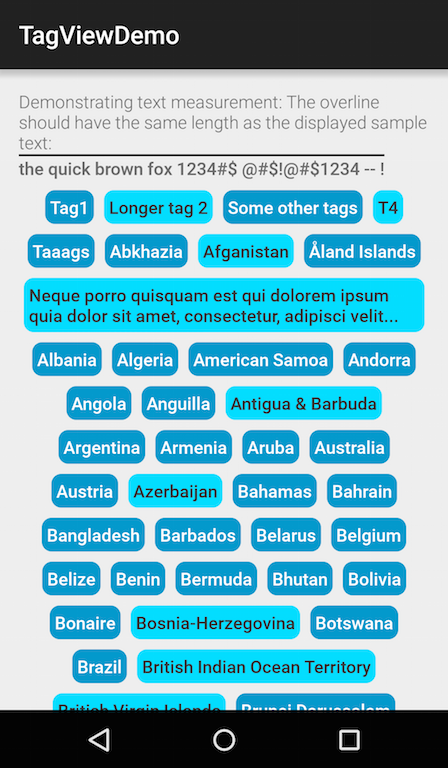
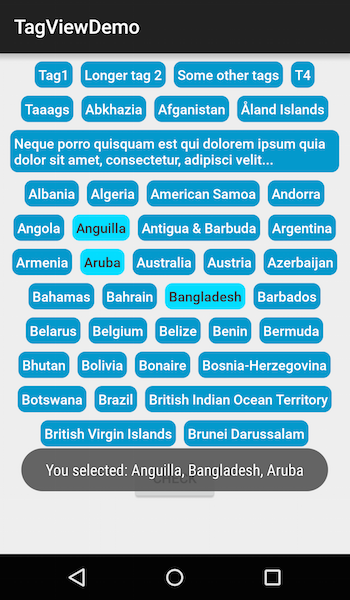
Fixed tag background references being lost on app resume

diff --git a/taglayout/src/main/java/com/flavpopescu/TagLayout.java b/taglayout/src/main/java/com/flavpopescu/TagLayout.java
@@ -5,9 +5,9 @@ import android.content.res.TypedArray;
 import android.graphics.Paint;
 import android.graphics.Typeface;
 import android.graphics.drawable.Drawable;
-import android.support.v4.content.res.ResourcesCompat;
 import android.text.TextUtils;
 import android.util.AttributeSet;
+import android.util.Log;
 import android.util.TypedValue;
 import android.view.Gravity;
 import android.view.View;
@@ -37,8 +37,8 @@ public class TagLayout extends LinearLayout {
     private int[] mTagWidths;
     private int mAvailableWidth;
     private Set<Integer> mSelectedTags;
-    private Drawable mTagBackgroundSelectedDrawable;
-    private Drawable mTagBackgroundDrawable;
+    private int mTagBackgroundId;
+    private int mTagBackgroundSelectedId;
 
     public TagLayout(Context context) {
         super(context);
@@ -60,14 +60,8 @@ public class TagLayout extends LinearLayout {
             mVerticalSpacing = a.getDimension(R.styleable.TagLayout_com_flavpopescu_tagVerticalSpacing,
                     (int) (TypedValue.applyDimension(TypedValue.COMPLEX_UNIT_DIP, 4, mContext.getResources().getDisplayMetrics())));
 
-            int tagBackgroundId = a.getResourceId(R.styleable.TagLayout_com_flavpopescu_tagBackground, 0);
-            if (tagBackgroundId != 0) {
-                mTagBackgroundDrawable = ResourcesCompat.getDrawable(mContext.getResources(), tagBackgroundId, null);
-            }
-            int tagBackgroundSelectedId = a.getResourceId(R.styleable.TagLayout_com_flavpopescu_tagBackgroundSelected, 0);
-            if (tagBackgroundSelectedId != 0) {
-                mTagBackgroundSelectedDrawable = ResourcesCompat.getDrawable(mContext.getResources(), tagBackgroundSelectedId, null);
-            }
+            mTagBackgroundId = a.getResourceId(R.styleable.TagLayout_com_flavpopescu_tagBackground, 0);
+            mTagBackgroundSelectedId = a.getResourceId(R.styleable.TagLayout_com_flavpopescu_tagBackgroundSelected, 0);
 
             mTagTextPadding = a.getDimension(R.styleable.TagLayout_com_flavpopescu_tagTextPadding,
                     (int) (TypedValue.applyDimension(TypedValue.COMPLEX_UNIT_DIP, 0, mContext.getResources().getDisplayMetrics())));
@@ -85,6 +79,10 @@ public class TagLayout extends LinearLayout {
         mSelectedTags = new HashSet<>();
     }
 
+    public Set<Integer> getSelectedTags() {
+        return mSelectedTags;
+    }
+
     @Override
     protected void onSizeChanged(int w, int h, int oldw, int oldh) {
         super.onSizeChanged(w, h, oldw, oldh);
@@ -97,10 +95,23 @@ public class TagLayout extends LinearLayout {
             String currentTag = mTags[i];
 
             final TextView textView = new TextView(mContext);
-            if (mTagBackgroundDrawable != null) {
-                textView.setBackground(mTagBackgroundDrawable);
-            }
             textView.setTextColor(mTextColor);
+
+            final Drawable drawableNormal;
+            final Drawable drawableSelected;
+            if (mTagBackgroundId > 0) {
+                drawableNormal = getResources().getDrawable(mTagBackgroundId).getConstantState().newDrawable();
+                textView.setBackground(drawableNormal);
+            } else {
+                drawableNormal = null;
+            }
+
+            if (mTagBackgroundSelectedId > 0) {
+                drawableSelected = getResources().getDrawable(mTagBackgroundSelectedId).getConstantState().newDrawable();
+            } else {
+                drawableSelected = null;
+            }
+
             textView.setText(currentTag);
 
             Paint paint = new Paint();
@@ -125,16 +136,16 @@ public class TagLayout extends LinearLayout {
                 public void onClick(View v) {
                     if (mSelectedTags.contains(tagIndex)) {
                         mSelectedTags.remove(tagIndex);
-                        if (mTagBackgroundDrawable != null) {
-                            textView.setBackground(mTagBackgroundDrawable);
-                        }
                         textView.setTextColor(mTextColor);
+                        if (drawableNormal != null) {
+                            textView.setBackground(drawableNormal);
+                        }
                     } else {
                         mSelectedTags.add(tagIndex);
-                        if (mTagBackgroundSelectedDrawable != null) {
-                            textView.setBackground(mTagBackgroundSelectedDrawable);
-                        }
                         textView.setTextColor(mTextColorSelected);
+                        if (drawableSelected != null) {
+                            textView.setBackground(drawableSelected);
+                        }
                     }
                 }
             });

diff --git a/app/src/main/java/com/flavpopescu/taglayout/MainActivity.java b/app/src/main/java/com/flavpopescu/taglayout/MainActivity.java
@@ -1,16 +1,15 @@
 package com.flavpopescu.taglayout;
 
-import android.graphics.Paint;
-import android.graphics.Point;
-import android.graphics.Typeface;
 import android.os.Bundle;
 import android.support.v7.app.AppCompatActivity;
-import android.util.Log;
-import android.util.TypedValue;
-import android.view.Display;
 import android.view.View;
-import android.widget.RelativeLayout;
-import android.widget.TextView;
+import android.widget.Button;
+import android.widget.Toast;
+
+import com.flavpopescu.TagLayout;
+
+import java.util.Iterator;
+import java.util.Set;
 
 public class MainActivity extends AppCompatActivity {
     @Override
@@ -18,28 +17,30 @@ public class MainActivity extends AppCompatActivity {
         super.onCreate(savedInstanceState);
         setContentView(R.layout.activity_main);
 
-        Display display = getWindowManager().getDefaultDisplay();
-        Point size = new Point();
-        display.getSize(size);
-        int width = size.x;
-        int height = size.y;
+        final TagLayout tagLayout = (TagLayout) findViewById(R.id.tagLayout);
+        Button submit = (Button) findViewById(R.id.submit_button);
 
-        Log.i("MainActivity", "#size screen width x height: " + width + " x " + height);
+        final String[] tags = getResources().getStringArray(R.array.tags_sample);
 
-        Typeface typeface = Typeface.createFromAsset(getAssets(), "fonts/Roboto-Medium.ttf");
-        Paint paint = new Paint();
-        paint.setTypeface(typeface);
-        paint.setTextSize(TypedValue.applyDimension(TypedValue.COMPLEX_UNIT_SP, 14, getResources().getDisplayMetrics()));
-        Log.i("TagLayout", "text size is : " + paint.getTextSize());
-        float textWidth = paint.measureText(getString(R.string.fox));
-        Log.i("TagLayout", "#size measure text: " + textWidth);
-
-        TextView textView = (TextView) findViewById(R.id.textView_sampleText);
-        textView.setTypeface(typeface);
-
-        View view = findViewById(R.id.ruler);
-        RelativeLayout.LayoutParams params = new RelativeLayout.LayoutParams((int)textWidth, 5);
-        params.addRule(RelativeLayout.BELOW, R.id.textViewExplanation);
-        view.setLayoutParams(params);
+        submit.setOnClickListener(new View.OnClickListener() {
+            @Override
+            public void onClick(View v) {
+                Set<Integer> selectedTags = tagLayout.getSelectedTags();
+                Iterator<Integer> iterator = selectedTags.iterator();
+                String message;
+                if (iterator.hasNext()) {
+                    StringBuilder builder = new StringBuilder("You selected: ");
+                    builder.append(tags[iterator.next()]);
+                    while (iterator.hasNext()) {
+                        builder.append(", ");
+                        builder.append(tags[iterator.next()]);
+                    }
+                    message = builder.toString();
+                } else {
+                    message = "Please make a selection";
+                }
+                Toast.makeText(MainActivity.this, message, Toast.LENGTH_SHORT).show();
+            }
+        });
     }
 }
